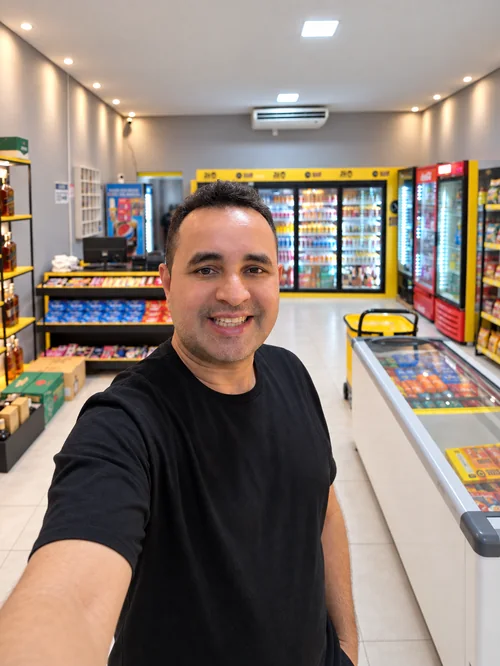
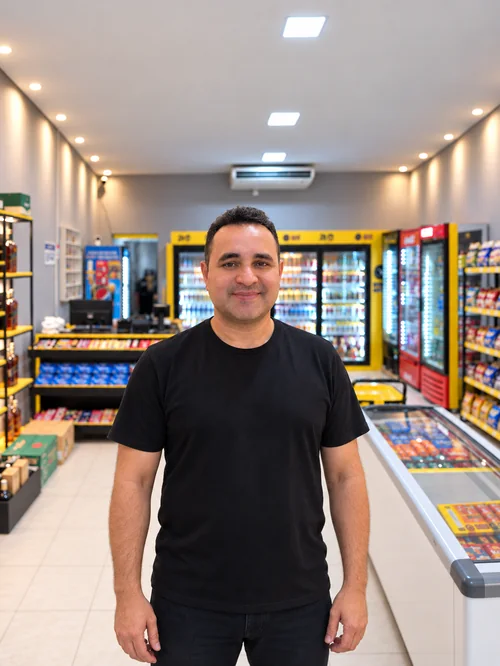
Garantias escritas para o lojista, acordeão fechado e as seis fotos no mesmo padrão
GARANTIAS. Eram quatro caixas montadas com o componente `.numero`, que existe
para NÚMERO ("+100", "8") e estava com palavra dentro: título gigante em cima de
uma linha miúda, sem ícone e sem hierarquia.

  · O texto foi reescrito PARA O LOJISTA. A versão anterior dizia "dados no
    Supabase": o nome do banco de dados não significa nada para quem vende no
    balcão. Agora diz o que ele precisa saber — "a loja não fica no
    computador: se ele quebrar, você abre em outro aparelho e está tudo lá".
    Mesma coisa nas outras três: "quem responde é gente", "abre e usa, como o
    WhatsApp Web", "começar não custa nada".
  · Cada uma ganhou a própria CENA em SVG, com uma parte que se move: os
    pontinhos de quem está digitando, o dado subindo para a nuvem, a página que
    carrega, o preço que zera. Cena, e não ícone de catálogo — é o que faz o
    bloco parecer desta página e não um encarte. Tudo dentro de
    prefers-reduced-motion: no-preference; conferido que com movimento reduzido
    são 0 animações e o bloco continua legível.
  · A ressalva mais honesta da página (o SoftPay não processa cartão, não
    substitui a maquininha) saiu do rodapé em cinza e ganhou destaque próprio.

ACORDEÃO. Nenhum painel vem mais aberto: a fileira começa com os seis iguais em
240px e só abre o que estiver sob o ponteiro. (A referência abre o primeiro de
saída; o Victor não quis.)

AS SEIS FOTOS NO MESMO PADRÃO. Landim e RN Grifes estavam certos — pessoa
[…]

diff --git a/public/index.html b/public/index.html
@@ -40,7 +40,7 @@
     <link rel="preload" as="image" href="/assets/desktop.webp?v=e9a78a25ba" fetchpriority="high" media="(min-width: 62rem)" />
     <link rel="stylesheet"
         href="https://fonts.googleapis.com/css2?family=Archivo:wdth,wght@62.125,400.900&family=Geist:wght@400.700&display=swap" />
-    <link rel="stylesheet" href="sistema.css?v=d4202bc951" />
+    <link rel="stylesheet" href="sistema.css?v=f5acabfc30" />
     <link rel="icon" href="/assets/icones e favicon.svg" />
 
     <!-- Meta Pixel Code -->
@@ -493,8 +493,8 @@
                     </span>
                 </a>
                 <a class="vitrine__item vitrine__item--real" href="/segmentos/loja-de-bebidas/">
-                    <img src="/assets/lojistas/vitrine/distribuidora-500.webp?v=6b15bd2d3c"
-                         srcset="/assets/lojistas/vitrine/distribuidora-500.webp?v=6b15bd2d3c 500w, /assets/lojistas/vitrine/distribuidora-1000.webp?v=e8fbfb1e43 1000w"
+                    <img src="/assets/lojistas/vitrine/distribuidora-500.webp?v=cdb8233411"
+                         srcset="/assets/lojistas/vitrine/distribuidora-500.webp?v=cdb8233411 500w, /assets/lojistas/vitrine/distribuidora-1000.webp?v=f318facc6f 1000w"
                          sizes="(min-width: 72rem) 680px, (min-width: 48rem) 33vw, 50vw"
                          width="500" height="667" loading="lazy" decoding="async" alt="Dono da Naldo Bebidas dentro da distribuidora, cliente SoftPay" />
                     <span class="vitrine__selo">Naldo Bebidas · cliente</span>
@@ -504,8 +504,8 @@
                     </span>
                 </a>
                 <a class="vitrine__item" href="/segmentos/farmacia/">
-                    <img src="/assets/lojistas/vitrine/farmacia-500.webp?v=1779c4193d"
-                         srcset="/assets/lojistas/vitrine/farmacia-500.webp?v=1779c4193d 500w, /assets/lojistas/vitrine/farmacia-1000.webp?v=1ba7a4ec5c 1000w"
+                    <img src="/assets/lojistas/vitrine/farmacia-500.webp?v=541b8975a2"
+                         srcset="/assets/lojistas/vitrine/farmacia-500.webp?v=541b8975a2 500w, /assets/lojistas/vitrine/farmacia-1000.webp?v=c76b37c201 1000w"
                          sizes="(min-width: 72rem) 680px, (min-width: 48rem) 33vw, 50vw"
                          width="500" height="667" loading="lazy" decoding="async" alt="Farmacêutica lançando a venda no computador do balcão" />
                     <span class="vitrine__rotulo">
@@ -514,8 +514,8 @@
                     </span>
                 </a>
                 <a class="vitrine__item" href="/segmentos/papelaria/">
-                    <img src="/assets/lojistas/vitrine/papelaria-500.webp?v=78741ac4aa"
-                         srcset="/assets/lojistas/vitrine/papelaria-500.webp?v=78741ac4aa 500w, /assets/lojistas/vitrine/papelaria-1000.webp?v=4ef9510470 1000w"
+                    <img src="/assets/lojistas/vitrine/papelaria-500.webp?v=bf46646660"
+                         srcset="/assets/lojistas/vitrine/papelaria-500.webp?v=bf46646660 500w, /assets/lojistas/vitrine/papelaria-1000.webp?v=f8ae1f5320 1000w"
                          sizes="(min-width: 72rem) 680px, (min-width: 48rem) 33vw, 50vw"
                          width="500" height="667" loading="lazy" decoding="async" alt="Atendente de papelaria passando o cartão da cliente na maquininha" />
                     <span class="vitrine__rotulo">
@@ -524,8 +524,8 @@
                     </span>
                 </a>
                 <a class="vitrine__item" href="/segmentos/loja-de-variedades/">
-                    <img src="/assets/lojistas/vitrine/loja-de-variedades-500.webp?v=0af24c50ec"
-                         srcset="/assets/lojistas/vitrine/loja-de-variedades-500.webp?v=0af24c50ec 500w, /assets/lojistas/vitrine/loja-de-variedades-1000.webp?v=56aa710cdb 1000w"
+                    <img src="/assets/lojistas/vitrine/loja-de-variedades-500.webp?v=18a0c11885"
+                         srcset="/assets/lojistas/vitrine/loja-de-variedades-500.webp?v=18a0c11885 500w, /assets/lojistas/vitrine/loja-de-variedades-1000.webp?v=0c426695ee 1000w"
                          sizes="(min-width: 72rem) 680px, (min-width: 48rem) 33vw, 50vw"
                          width="500" height="667" loading="lazy" decoding="async" alt="Lojista organizando a prateleira da loja de variedades" />
                     <span class="vitrine__rotulo">
@@ -658,7 +658,7 @@
                         <span class="mapa__rostos">
                             <img src="/assets/mapa/rn-grifes.webp?v=a2e37c536c" width="160" height="160" loading="lazy" decoding="async" alt="Neto, da RN Grifes" />
                             <img src="/assets/mapa/gabriel-landim.webp?v=06b6ad702b" width="160" height="160" loading="lazy" decoding="async" alt="Gabriel Landim" />
-                            <img src="/assets/mapa/naldo-bebidas.webp?v=44a581a515" width="160" height="160" loading="lazy" decoding="async" alt="Dono da Naldo Bebidas" />
+                            <img src="/assets/mapa/naldo-bebidas.webp?v=be4d3a5ad9" width="160" height="160" loading="lazy" decoding="async" alt="Dono da Naldo Bebidas" />
                         </span>
                         <span class="mapa__balao">
                             <b>Maranhão</b>
@@ -811,18 +811,98 @@
                         </article>
                     </div>
 
-                    <div class="pilha">
-                        <div class="duo">
-                            <div class="numero"><span class="numero__valor">Humano</span><span class="numero__rotulo">suporte por WhatsApp, feito por gente da equipe</span></div>
-                            <div class="numero"><span class="numero__valor">Nuvem</span><span class="numero__rotulo">dados no Supabase, com backup automático</span></div>
-                            <div class="numero"><span class="numero__valor">Navegador</span><span class="numero__rotulo">nada para instalar, nem servidor na loja</span></div>
-                            <div class="numero"><span class="numero__valor">Sem taxa</span><span class="numero__rotulo">nenhuma cobrança de implantação</span></div>
-                        </div>
-                        <p class="apoio">
-                            O SoftPay registra a venda e o recebimento. Ele não processa cartão:
+                    <!-- As garantias. Eram quatro caixas soltas montadas com o componente
+                         `.numero`, que existe para NÚMERO ("+100", "8") e não para palavra:
+                         título gigante, nenhum ícone, nenhuma hierarquia.
+
+                         Agora cada uma tem a própria cena desenhada em SVG, com uma parte
+                         que se move: os pontinhos de quem está digitando, o dado subindo
+                         para a nuvem, a página que carrega, o preço que zera. Cena, e não
+                         ícone de catálogo — é o que faz o bloco parecer desta página.
+
+                         O texto foi reescrito para o LOJISTA. A versão anterior dizia
+                         "dados no Supabase": o nome do banco de dados não significa nada
+                         para quem vende no balcão, e o que ele precisa saber é que não
+                         perde a loja se o computador quebrar. -->
+                    <aside class="garantias">
+                        <p class="rotulo">Sem pegadinha</p>
+                        <ul class="garantias__lista">
+                            <li class="garantia">
+                                <span class="cena cena--suporte" aria-hidden="true">
+                                    <svg viewBox="0 0 48 48" fill="none" stroke="currentColor" stroke-width="2"
+                                         stroke-linecap="round" stroke-linejoin="round">
+                                        <path d="M40 22.5c0 7.5-7.2 13.5-16 13.5a19 19 0 0 1-5.2-.7L9 39l2.6-6.4A12.8 12.8 0 0 1 8 22.5C8 15 15.2 9 24 9s16 6 16 13.5z"/>
+                                        <circle class="cena__ponto cena__ponto--1" cx="17" cy="22.5" r="1.6" fill="currentColor" stroke="none"/>
+                                        <circle class="cena__ponto cena__ponto--2" cx="24" cy="22.5" r="1.6" fill="currentColor" stroke="none"/>
+                                        <circle class="cena__ponto cena__ponto--3" cx="31" cy="22.5" r="1.6" fill="currentColor" stroke="none"/>
+                                    </svg>
+                                </span>
+                                <span class="garantia__texto">
+                                    <b>Quem responde é gente</b>
+                                    Você manda mensagem no WhatsApp e fala com uma pessoa da
+                                    equipe — sem robô, sem número de protocolo e sem fila.
+                                </span>
+                            </li>
+
+                            <li class="garantia">
+                                <span class="cena cena--nuvem" aria-hidden="true">
+                                    <svg viewBox="0 0 48 48" fill="none" stroke="currentColor" stroke-width="2"
+                                         stroke-linecap="round" stroke-linejoin="round">
+                                        <path d="M35 33H19a9.5 9.5 0 1 1 1.8-18.8A11.5 11.5 0 1 1 35 33z"/>
+                                        <path class="cena__sobe cena__sobe--1" d="M24 40v-8m0 0-2.6 2.6M24 32l2.6 2.6"/>
+                                        <path class="cena__sobe cena__sobe--2" d="M16 42v-6m0 0-2.2 2.2M16 36l2.2 2.2"/>
+                                        <path class="cena__sobe cena__sobe--3" d="M32 42v-6m0 0-2.2 2.2M32 36l2.2 2.2"/>
+                                    </svg>
+                                </span>
+                                <span class="garantia__texto">
+                                    <b>A loja não fica no computador</b>
+                                    Se o computador quebrar, sumir ou ficar sem internet, você
+                                    abre em outro aparelho e está tudo lá — com cópia de
+                                    segurança feita sozinha, todo dia.
+                                </span>
+                            </li>
+
+                            <li class="garantia">
+                                <span class="cena cena--janela" aria-hidden="true">
+                                    <svg viewBox="0 0 48 48" fill="none" stroke="currentColor" stroke-width="2"
+                                         stroke-linecap="round" stroke-linejoin="round">
+                                        <rect x="7" y="11" width="34" height="26" rx="3"/>
+                                        <path d="M7 19h34"/>
+                                        <path d="M12 15h.01M16 15h.01M20 15h.01"/>
+                                        <path class="cena__carrega" d="M13 28h22"/>
+                                    </svg>
+                                </span>
+                                <span class="garantia__texto">
+                                    <b>Abre e usa, como o WhatsApp Web</b>
+                                    Nada para instalar e nenhum programa no computador da loja.
+                                    Funciona no computador do balcão, no celular e no tablet.
+                                </span>
+                            </li>
+
+                            <li class="garantia">
+                                <span class="cena cena--zero" aria-hidden="true">
+                                    <svg viewBox="0 0 48 48" fill="none" stroke="currentColor" stroke-width="2"
+                                         stroke-linecap="round" stroke-linejoin="round">
+                                        <rect x="6" y="14" width="36" height="21" rx="3"/>
+                                        <path d="M6 20h36M6 29h36" opacity="0.35"/>
+                                        <text class="cena__zero" x="24" y="28.5" text-anchor="middle"
+                                              font-family="Archivo, sans-serif" font-size="11" font-weight="800"
+                                              font-stretch="70%" fill="currentColor" stroke="none">R$ 0</text>
+                                    </svg>
+                                </span>
+                                <span class="garantia__texto">
+                                    <b>Começar não custa nada</b>
+                                    Sem taxa de instalação, sem cobrança para passar seus
+                                    produtos para o sistema e sem fidelidade. Você testa
+                                    7 dias antes de decidir.
+                                </span>
+                            </li>
+                        </ul>
+                        <p class="garantias__nota">
+                            O SoftPay registra a venda e o recebimento. Ele <b>não processa cartão</b>:
                             não substitui a maquininha, trabalha junto com ela.
                         </p>
-                    </div>
+                    </aside>
                 </div>
             </div>
         </section>

diff --git a/public/sistema.css b/public/sistema.css
@@ -641,7 +641,9 @@ p:last-child { margin-bottom: 0; }
         container-type: normal;
         transition: flex-grow 0.55s var(--mola);
     }
-    .vitrine:not(:hover) > .vitrine__item:first-child,
+    /* Nenhum painel vem aberto: a fileira começa igual e só abre o que estiver
+       sob o ponteiro. (A referência abre o primeiro de saída; o Victor não
+       quis — 17/09/2026.) */
     .vitrine__item:hover,
     .vitrine__item:focus-visible { flex-grow: 1.8; }
 }
@@ -1619,12 +1621,10 @@ a.so-leitor:focus {
     /* O painel aberto tem 365px úteis contra 196px: o nome dele cresce junto.
        A 34px o rótulo mais longo desta fileira ("Celulares e acessórios") mede
        341px — ainda dentro dos 365. */
-    .vitrine:not(:hover) > .vitrine__item:first-child .vitrine__nome,
     .vitrine__item:hover .vitrine__nome,
     .vitrine__item:focus-visible .vitrine__nome { font-size: 2.125rem; }
 
     .vitrine__seta { opacity: 0; transform: translateY(10px); margin-top: 0; }
-    .vitrine:not(:hover) > .vitrine__item:first-child .vitrine__seta,
     .vitrine__item:hover .vitrine__seta,
     .vitrine__item:focus-visible .vitrine__seta { opacity: 1; transform: none; }
     .vitrine__item:hover .vitrine__seta { background: rgba(255, 255, 255, 0.22); }
@@ -2243,3 +2243,115 @@ a.so-leitor:focus {
 }
 @media (hover: hover) and (pointer: fine) { .whatsapp-float:hover { transform: scale(1.06); } }
 @media (prefers-reduced-motion: reduce) { .whatsapp-float { transition: none; } }
+
+
+/* ==========================================================================
+   26. AS GARANTIAS (ao lado dos depoimentos)
+   --------------------------------------------------------------------------
+   Eram quatro caixas soltas feitas com `.numero` — um componente que existe
+   para NÚMERO ("+100", "8") e estava sendo usado com palavra. O resultado era
+   um título gigante em cima de uma linha miúda, sem ícone e sem hierarquia,
+   num bloco que não se parecia com nada mais da página.
+
+   Agora é um bloco só, e ele empresta o que a página já usa em outros lugares:
+   o disco de vapor azul com ícone de traço das pílulas da esteira, o fio fino
+   entre itens da antiga linha de segmentos, e o rótulo em caixa alta das
+   cabeças de seção. É isso que o faz parecer parte da LP, e não um encarte.
+   ========================================================================== */
+.garantias {
+    display: grid; align-content: start; gap: var(--sp-4);
+    padding: var(--sp-5);
+    background: var(--branco);
+    border: 1px solid var(--linha);
+    border-radius: var(--r-lg);
+    box-shadow: var(--sombra-1);
+}
+@media (min-width: 48rem) { .garantias { padding: var(--sp-6); } }
+
+.garantias__lista { display: grid; gap: 0; margin: 0; padding: 0; list-style: none; }
+
+.garantia {
+    display: grid; grid-template-columns: auto 1fr; gap: var(--sp-4);
+    align-items: start;
+    padding: var(--sp-5) 0;
+}
+.garantia + .garantia { border-top: 1px solid var(--linha); }
+.garantia:first-child { padding-top: 0; }
+.garantia:last-child { padding-bottom: 0; }
+
+/* A CENA
+   Não é ícone de catálogo: cada uma desenha o que a frase diz, e tem uma parte
+   que se move — os pontinhos de quem está digitando, o dado subindo para a
+   nuvem, a página que carrega, o preço que zera. É SVG, então carrega junto com
+   o HTML, é nítida em qualquer tela e muda de cor com a marca.
+   Tudo o que se move está dentro de `prefers-reduced-motion: no-preference`;
+   com movimento reduzido a cena fica parada e continua legível. */
+.cena {
+    display: grid; place-items: center;
+    width: 3.25rem; height: 3.25rem; flex: 0 0 auto;
+    border-radius: var(--r-md);
+    background: linear-gradient(160deg, var(--acento-vapor), #F7FBFE);
+    border: 1px solid var(--linha);
+    color: var(--azul);
+}
+.cena svg { width: 2.25rem; height: 2.25rem; display: block; }
+
+@media (prefers-reduced-motion: no-preference) {
+    /* 1. quem responde é gente: os três pontos de "digitando" */
+    .cena__ponto { animation: cena-digita 1.5s ease-in-out infinite; }
+    .cena__ponto--2 { animation-delay: 0.18s; }
+    .cena__ponto--3 { animation-delay: 0.36s; }
+
+    /* 2. a loja não fica no computador: o dado sobe para a nuvem */
+    .cena__sobe { animation: cena-sobe 2.4s ease-in-out infinite; }
+    .cena__sobe--2 { animation-delay: 0.35s; }
+    .cena__sobe--3 { animation-delay: 0.7s; }
+
+    /* 3. abre e usa: a barra da página preenchendo */
+    .cena__carrega {
+        stroke-dasharray: 22; stroke-dashoffset: 22;
+        animation: cena-carrega 2.6s ease-in-out infinite;
+    }
+
+    /* 4. começar não custa nada: o preço que assenta em zero */
+    .cena__zero { animation: cena-zero 3.2s ease-in-out infinite; }
+}
+@keyframes cena-digita {
+    0%, 60%, 100% { opacity: 0.35; transform: translateY(0); }
+    30%           { opacity: 1;    transform: translateY(-2px); }
+}
+@keyframes cena-sobe {
+    0%        { opacity: 0;   transform: translateY(4px); }
+    25%, 55%  { opacity: 0.9; transform: translateY(0); }
+    80%, 100% { opacity: 0;   transform: translateY(-4px); }
+}
+@keyframes cena-carrega {
+    0%        { stroke-dashoffset: 22; }
+    55%, 80%  { stroke-dashoffset: 0; }
+    100%      { stroke-dashoffset: 0; }
+}
+@keyframes cena-zero {
+    0%, 70%, 100% { opacity: 1; transform: none; }
+    80%           { opacity: 1; transform: scale(1.1); }
+}
+.garantia__texto {
+    display: block;
+    font-size: var(--t-sm); line-height: 1.5; color: var(--tinta-2);
+}
+.garantia__texto b {
+    display: block; margin-bottom: 0.15rem;
+    font-size: var(--t-md); font-weight: 700; color: var(--tinta);
+}
+
+/* A ressalva fecha o bloco. Ela é a frase mais honesta da página — o SoftPay
+   não substitui a maquininha — e por isso ganha destaque próprio em vez de
+   virar rodapé em cinza claro. */
+.garantias__nota {
+    margin: 0;
+    padding: var(--sp-4);
+    border-radius: var(--r-md);
+    border-left: 3px solid var(--acento);
+    background: var(--sup-alt);
+    font-size: var(--t-sm); line-height: 1.55; color: var(--tinta-2);
+}
+.garantias__nota b { color: var(--tinta); }
